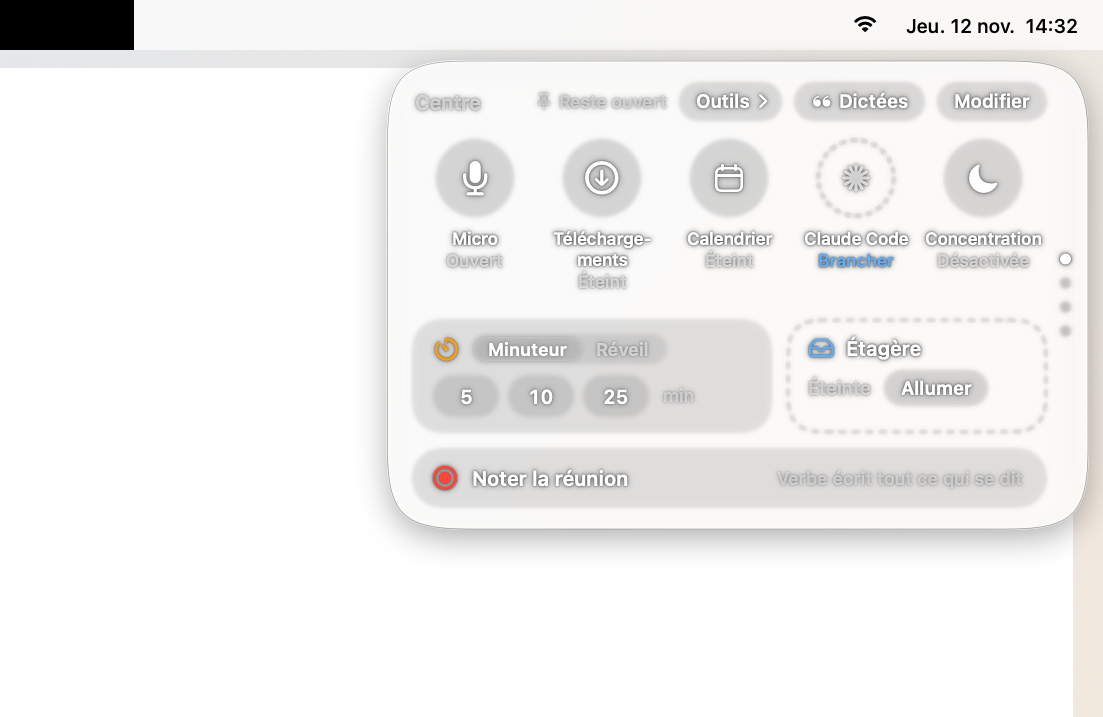
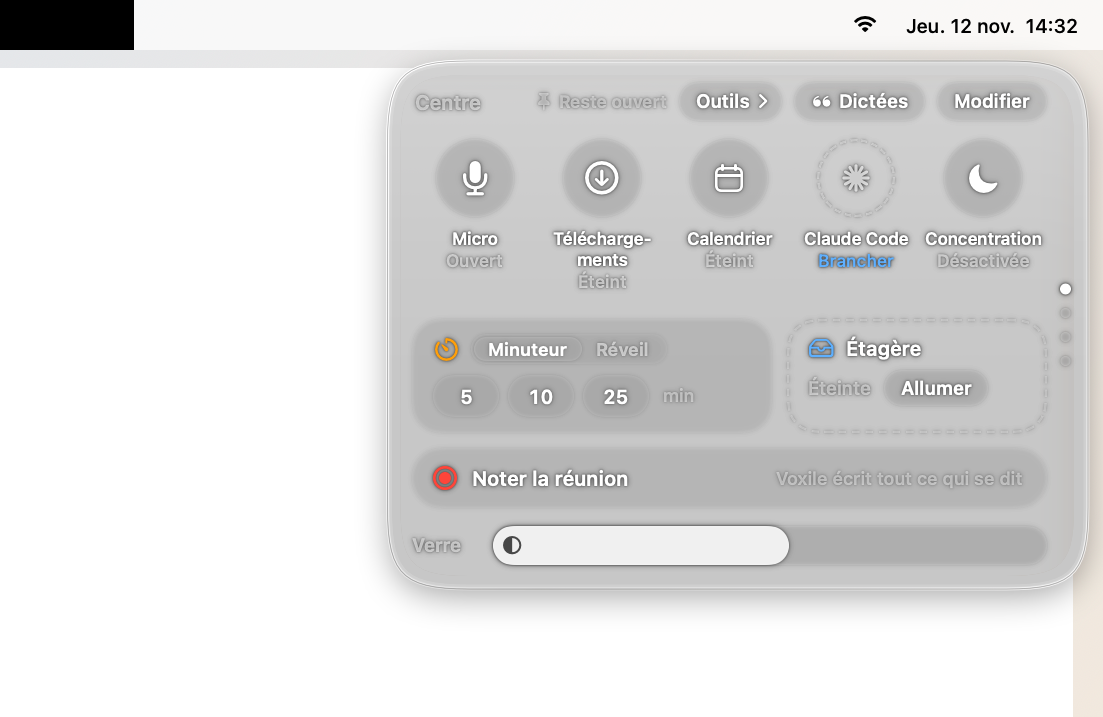
Centre : le curseur « Verre » règle l'intensité du verre depuis l'îlot, comme la luminosité du Centre de contrôle
Demande de Hugues (13/11) : régler l'opacité de la pilule directement depuis le Centre, avec un bouton visible, sans raccourci.
- Une rangée en bas du Centre, quand la Lucarne est en verre (hors de l'encoche ; dans l'encoche, l'îlot est noir) : « Verre » et
  une piste en capsule qui se remplit, le symbole du verre au bout rempli ; un clic pose la valeur, un glisser la suit, le Centre
  reste ouvert. Elle ne dépend d'aucun rond libre (rangées pleines chez Hugues).
- Une seule valeur (`ReglageVerre.regler`, pas de 0,05) pour le curseur du Centre et celui des Réglages : bouger l'un déplace
  l'autre, l'aperçu est immédiat sur la Lucarne ; l'enregistrement passe par une fermeture que l'essai remplace.
- Essai `DICTEE_ESSAI_SEUL=verre` (et dans l'essai complet), vrais événements souris : pas de curseur dans l'encoche ; en verre,
  la hauteur du Centre suit ; clic à 20 % ; glisser lent de 20 à 85 % (plus que l'appui long) sans décoller la Lucarne ; Réglages
  et Centre synchronisés dans les deux sens. Contrôle du plan ; rendus lucarne-haut-droite-centre-clair/sombre.

diff --git a/Sources/Dictee/CentreIlot.swift b/Sources/Dictee/CentreIlot.swift
@@ -61,6 +61,7 @@ enum PlanCentre {
         case .ronds: h = DispositionCentre.ronds + (m.nomsSurDeuxLignesDe(page) ? DispositionCentre.ligneNom : 0)
         case .cases: h = DispositionCentre.cases
         case .bande: h = DispositionCentre.bande
+        case .verre: h = DispositionCentre.rangeeVerre
         }
         return CGRect(x: z.minX, y: g.barre + CGFloat(y), width: z.width, height: CGFloat(h))
     }
@@ -264,12 +265,15 @@ extension IlotMoteur {
     var nomsCentre: [(texte: String, place: CGFloat, taille: CGFloat)] { nomsDe(.centre) }
     var nomsSurDeuxLignes: Bool { nomsSurDeuxLignesDe(.centre) }
     /// Les rangées d'une page et sa profondeur sous la barre. Sur la page Outils, le panneau « Garder éveillé » prend la place des cases.
+    /// Le curseur « Verre » au bas du Centre : seulement quand la Lucarne est en verre (hors de l'encoche).
+    var verreDansLeCentre: Bool { lucarne.libre }
     func planDe(_ p: PageCentre) -> (hauts: [DispositionCentre.Rangee: Double], profondeur: Double) {
         let deux = nomsSurDeuxLignesDe(p)
         // le Centre suit sa mise en page du moment (les fichiers de l'étagère en haut, la réunion en case) ; les Outils, leur disposition
         if p == .centre {
             let mp = miseEnPageCentre
-            return DispositionCentre.plan(etagere: mp.etagereEnHaut, ronds: !rondsDe(p).isEmpty, cases: !mp.cases.isEmpty, bande: mp.bande, nomsSurDeuxLignes: deux)
+            return DispositionCentre.plan(etagere: mp.etagereEnHaut, ronds: !rondsDe(p).isEmpty, cases: !mp.cases.isEmpty, bande: mp.bande, nomsSurDeuxLignes: deux,
+                                          verre: verreDansLeCentre)
         }
         return DispositionCentre.plan(ronds: !rondsDe(p).isEmpty, cases: panneauEveilVisible, bande: dispositionDe(p).bande, nomsSurDeuxLignes: deux)
     }
@@ -345,6 +349,9 @@ struct CentreVue: View {
                 }
                 if m.miseEnPageCentre.bande {
                     BandeReunion(m: m).posee(PlanCentre.cadreBande(m, g), m.aspect(v, rang: 4), ancre: .top)
+                }
+                if let r = PlanCentre.cadre(.verre, m, g) {
+                    CurseurVerreCentre(m: m, largeur: r.width).posee(r, m.aspect(v, rang: 5), ancre: .top)
                 }
             } else {
                 if m.panneauEveilVisible, let c = PlanCentre.cadre(.cases, m, g, page: .outils) {
@@ -1418,5 +1425,46 @@ extension IlotControleur {
         moteur.telechargementsAttente = false
         if depuisLeCentre { moteur.avisCentre = .telechargementsRefuses }
         moteur.donneesChangees()
+    }
+}
+
+/// Le curseur « Verre » du Centre (13/11, Hugues : régler l'opacité de la pilule depuis l'îlot, avec un bouton visible, comme le curseur de
+/// luminosité du Centre de contrôle de macOS) : une piste en capsule qui se remplit, le symbole du verre au bout rempli ; on la glisse ou
+/// on clique où l'on veut. C'est la même valeur que le curseur des Réglages (`ReglageVerre`) : l'aperçu est immédiat sur la Lucarne.
+struct CurseurVerreCentre: View {
+    @ObservedObject var m: IlotMoteur
+    @ObservedObject var verre = ReglageVerre.partage
+    var largeur: CGFloat
+    static let hauteurPiste: CGFloat = 26, etiquette: CGFloat = 44, ecart: CGFloat = 10
+    /// La piste (repère du Centre) : utile aux essais pour viser un point.
+    static func piste(_ r: CGRect) -> CGRect {
+        CGRect(x: r.minX + etiquette + ecart, y: r.midY - hauteurPiste / 2, width: r.width - etiquette - ecart, height: hauteurPiste)
+    }
+
+    var body: some View {
+        let w = largeur - Self.etiquette - Self.ecart, h = Self.hauteurPiste
+        let i = verre.intensite
+        HStack(spacing: Self.ecart) {
+            Text("Verre").font(.system(size: 12.5, weight: .semibold)).foregroundStyle(CouleursIlot.encre2)
+                .frame(width: Self.etiquette, alignment: .leading).allowsHitTesting(false)
+            ZStack(alignment: .leading) {
+                Capsule().fill(Color.white.opacity(0.16))
+                Capsule().fill(Color.white.opacity(0.92)).frame(width: h + (w - h) * CGFloat(i))
+                Image(systemName: "circle.lefthalf.filled").font(.system(size: 12, weight: .semibold)).foregroundStyle(Color.black.opacity(0.7))
+                    .frame(width: h, height: h)
+            }
+            .frame(width: w, height: h)
+            .contentShape(Capsule())
+            // un clic pose la valeur sous le pointeur, un glisser la suit ; le Centre reste ouvert (épinglé), comme pour ses boutons
+            .gesture(DragGesture(minimumDistance: 0).onChanged { g in
+                m.epinglerLeCentre()
+                verre.regler(Double((g.location.x - h / 2) / max(1, w - h)))
+            })
+            .accessibilityElement()
+            .accessibilityLabel("Intensité du verre")
+            .accessibilityValue(VerreLucarne.nomIntensite(i))
+            .accessibilityAdjustableAction { d in verre.regler(i + (d == .increment ? 0.1 : -0.1)) }
+        }
+        .frame(width: largeur, height: CGFloat(DispositionCentre.rangeeVerre))
     }
 }

diff --git a/Sources/Dictee/IlotEssaiPlacesLucarne.swift b/Sources/Dictee/IlotEssaiPlacesLucarne.swift
@@ -1041,3 +1041,70 @@ extension IlotEssai {
         c.panneau.recaler(); m.poser(); pause(0.4)
     }
 }
+
+extension IlotEssai {
+    /// Le curseur « Verre » du Centre (13/11, Hugues : l'intensité du verre réglable depuis l'îlot, comme la luminosité du Centre de
+    /// contrôle), avec de vrais événements souris : absent dans l'encoche (noire) ; en verre, un clic pose la valeur, un glisser de plus
+    /// d'une seconde la suit sans décoller la Lucarne, le Centre reste ouvert ; les Réglages suivent, et le curseur suit les Réglages.
+    /// Jamais les vrais réglages : la valeur est gardée dans une fermeture de l'essai.
+    @MainActor
+    static func verreCentre(_ c: IlotControleur, verifier: (Bool, String) -> Void, attendre: (Double, () -> Bool) -> Void) {
+        func pause(_ s: Double) { attendre(s) { true } }
+        let m = c.moteur
+        print("— le curseur « Verre » du Centre")
+        let rv = ReglageVerre.partage
+        let avant = rv.intensite, enregistrerAvant = rv.enregistrer
+        var ecrits: [Double] = []
+        rv.enregistrer = { ecrits.append($0) }
+        var tenu = false
+        m.boutonEnfonce = { tenu }
+        func aller(_ p: PlaceLucarne) {
+            CatalogueLucarne.vider(m)
+            EssaiPlaces.memoire.poser(p, sur: EssaiPlaces.ecran)
+            c.panneau.recaler(); m.poser(); pause(0.4)
+        }
+        defer {
+            m.boutonEnfonce = { NSEvent.pressedMouseButtons & 1 != 0 }
+            rv.enregistrer = enregistrerAvant; rv.intensite = avant
+            aller(.encoche)
+        }
+        // dans l'encoche : l'îlot est noir, pas de verre à régler
+        aller(.encoche)
+        m.clicForme(); pause(0.9)
+        verifier(m.courante == .centre && PlanCentre.cadre(.verre, m) == nil, "Lucarne dans l'encoche (noire) : pas de curseur Verre dans le Centre")
+        m.fermer(); pause(0.8)
+        // en verre, en haut à droite : un clic court sur la pilule ouvre le Centre
+        aller(.hautDroite)
+        let pil = m.lucarne.capsule.cible
+        let surPilule = CGPoint(x: pil.centreX, y: pil.centreY)
+        c.panneau.envoyerSouris(.leftMouseDown, en: surPilule); pause(0.08); c.panneau.envoyerSouris(.leftMouseUp, en: surPilule); pause(1.0)
+        guard m.courante == .centre, let r = PlanCentre.cadre(.verre, m) else {
+            verifier(false, "Lucarne en verre : le Centre s'ouvre et montre le curseur Verre (\(m.courante.rawValue))"); return
+        }
+        verifier(abs(CGFloat(m.geo[2].x) - m.grille.hauteur(.centre)) < 0.6,
+                 "le Centre en verre a la hauteur de ce qu'il montre, curseur compris (\(Int(m.geo[2].x)) pt pour \(Int(m.grille.hauteur(.centre))))")
+        let piste = CurseurVerreCentre.piste(r), h = CurseurVerreCentre.hauteurPiste
+        func point(_ u: CGFloat) -> CGPoint { m.depuisContenu(CGPoint(x: piste.minX + h / 2 + (piste.width - h) * u, y: piste.midY)) }
+        func bas(_ p: CGPoint) { tenu = true; c.panneau.envoyerSouris(.leftMouseDown, en: p) }
+        func haut(_ p: CGPoint) { c.panneau.envoyerSouris(.leftMouseUp, en: p); tenu = false }
+        // un clic à 20 %
+        bas(point(0.2)); pause(0.08); haut(point(0.2)); pause(0.4)
+        verifier(abs(rv.intensite - 0.2) < 0.051 && abs((ecrits.last ?? -1) - rv.intensite) < 0.001 && m.courante == .centre && m.lucarne.place == .hautDroite,
+                 "un vrai clic à 20 % de la piste : intensité \(rv.intensite), gardée, le Centre reste ouvert, la Lucarne à sa place")
+        // un glisser lent (plus d'une seconde, au-delà des 0,4 s de l'appui long) de 20 % à 85 %
+        bas(point(0.2))
+        for i in 1...30 { c.panneau.envoyerSouris(.leftMouseDragged, en: point(0.2 + 0.65 * CGFloat(i) / 30)); pause(0.035) }
+        pause(0.2); haut(point(0.85)); pause(0.6)
+        verifier(abs(rv.intensite - 0.85) < 0.051 && m.courante == .centre && m.lucarne.place == .hautDroite && !m.lucarneEnMain && m.lucarne.geste.phase == .repos,
+                 "un vrai glisser de 20 à 85 % en plus d'une seconde : intensité \(rv.intensite), la Lucarne ne se décolle pas, le Centre reste ouvert \(IlotEssai.etatLucarne(m))")
+        // les deux curseurs n'en font qu'un : les Réglages suivent le Centre, et l'inverse
+        let reglages = ReglagesModele(reel: false)
+        let suitLeCentre = abs(reglages.intensiteVerre - rv.intensite) < 0.001
+        reglages.intensiteVerre = 0.4; pause(0.2)
+        verifier(suitLeCentre && abs(rv.intensite - 0.4) < 0.001 && abs((ecrits.last ?? -1) - 0.4) < 0.001,
+                 "Réglages et Centre : la même valeur (Réglages à \(reglages.intensiteVerre), Centre à \(rv.intensite)), bouger l'un déplace l'autre")
+        bas(point(1)); pause(0.08); haut(point(1)); pause(0.3)
+        verifier(abs(reglages.intensiteVerre - 1) < 0.001, "le curseur du Centre au bout : les Réglages affichent « \(VerreLucarne.nomIntensite(reglages.intensiteVerre)) »")
+        m.clicAilleurs(); pause(0.6)
+    }
+}

diff --git a/Sources/Dictee/ReglagesModele.swift b/Sources/Dictee/ReglagesModele.swift
@@ -1,4 +1,5 @@
 import AppKit
+import Combine
 import AVFoundation
 import ServiceManagement
 import EventKit
@@ -35,7 +36,7 @@ final class ReglagesModele: ObservableObject {
     /// Pas d'encoche sur l'écran principal : l'icône est toujours là (`PresenceIcone`), l'interrupteur la montre allumée, grisé.
     @Published var iconeToujours = false
     /// L'intensité du verre de la Lucarne : 0 discret, 1 très appuyé (0,5 par défaut).
-    @Published var intensiteVerre: Double { didSet { if !installe { return }; Settings.intensiteVerre = intensiteVerre; ReglageVerre.partage.intensite = intensiteVerre } }
+    @Published var intensiteVerre: Double { didSet { if !installe { return }; ReglageVerre.partage.regler(intensiteVerre) } }
     @Published var ilotMicro: Bool { didSet { if !installe { return }; Settings.ilotMicro = ilotMicro; NotificationCenter.default.post(name: .verbeIlotReglages, object: nil) } }
     @Published var ilotNiveaux: Bool { didSet { if !installe { return }; Settings.ilotNiveaux = ilotNiveaux; NotificationCenter.default.post(name: .verbeIlotReglages, object: nil) } }
     @Published var ilotEtagere: Bool { didSet { if !installe { return }; Settings.ilotEtagere = ilotEtagere; NotificationCenter.default.post(name: .verbeIlotReglages, object: nil) } }
@@ -97,6 +98,7 @@ final class ReglagesModele: ObservableObject {
     /// Réglage « Appuyer sur 🌐 pour » (voir `ToucheGlobe`) ; `nil` = clé absente.
     @Published private(set) var globeValeur: Int?
     private var installe = false
+    private var verre: AnyCancellable?
     private let reel: Bool
     /// Mises à jour : l'état partagé avec la ligne sous l'encoche (réel), ou un exemple pour les rendus.
     let maj: MiseAJourModele
@@ -139,6 +141,13 @@ final class ReglagesModele: ObservableObject {
         ouvrirAuDemarrage = reel ? SMAppService.mainApp.status == .enabled : false
         micros = [MicroChoix(id: ChoixMicro.automatique, nom: "Automatique"), MicroChoix(id: ChoixMicro.systeme, nom: "Micro du système")]
         installe = true
+        // le curseur du Centre de l'îlot change la même valeur : celui des Réglages le suit (ne lit que ReglageVerre : aussi en essai)
+        verre = ReglageVerre.partage.$intensite.removeDuplicates().sink { [weak self] v in
+            MainActor.assumeIsolated {
+                guard let self, abs(self.intensiteVerre - v) > 0.001 else { return }
+                self.installe = false; self.intensiteVerre = v; self.installe = true
+            }
+        }
         if reel {
             NotificationCenter.default.addObserver(forName: NSApplication.didChangeScreenParametersNotification, object: nil, queue: .main) { [weak self] _ in
                 MainActor.assumeIsolated { guard let self else { return }; let t = !PresenceIcone.encochePrincipale; if self.iconeToujours != t { self.iconeToujours = t } }

diff --git a/Sources/Dictee/IlotEssai.swift b/Sources/Dictee/IlotEssai.swift
@@ -121,7 +121,7 @@ enum IlotEssai {
         // une section seule (pour la mettre au point sans attendre tout l'essai) : `DICTEE_ESSAI_SEUL=bibliotheque` (ou `reveil`, `places`, `places-survol`, `concentration`, `voix`), ou
         // `--ilot-essai --seulement=survol` (le survol des Dictées, pour mesurer vite ; l'essai complet la joue aussi)
         let seul = CommandLine.arguments.contains("--seulement=survol") ? "survol" : ProcessInfo.processInfo.environment["DICTEE_ESSAI_SEUL"]
-        if let seul, ["bibliotheque", "reveil", "survol", "places", "places-survol", "concentration", "voix", "dictee"].contains(seul) {
+        if let seul, ["bibliotheque", "reveil", "survol", "places", "places-survol", "concentration", "voix", "dictee", "verre"].contains(seul) {
             attendre(0.4)
             if seul == "bibliotheque" {
                 IlotEssai.bibliotheque(c, dossier: dossier, verifier: verifier, attendre: { attendre($0, tant: $1) },
@@ -134,6 +134,8 @@ enum IlotEssai {
                 // `places-survol` : le survol des Dictées juste après (comme dans l'essai complet) : la Lucarne revenue dans l'encoche ne
                 // doit rien laisser qui alourdisse l'îlot
                 if seul == "places-survol" { IlotEssai.survolDictees(c, verifier: verifier, attendre: { attendre($0, tant: $1) }) }
+            } else if seul == "verre" {
+                IlotEssai.verreCentre(c, verifier: verifier, attendre: { attendre($0, tant: $1) })
             } else if seul == "dictee" {
                 IlotEssai.dicteeLucarneCablee(c, verifier: verifier, attendre: { attendre($0, tant: $1) })
                 IlotEssai.lectureEnPauseLucarne(c, verifier: verifier, attendre: { attendre($0, tant: $1) })
@@ -1195,6 +1197,7 @@ enum IlotEssai {
         IlotEssai.dicteeLucarne(c, verifier: verifier, attendre: { attendre($0, tant: $1) })
         IlotEssai.dicteeLucarneCablee(c, verifier: verifier, attendre: { attendre($0, tant: $1) })
         IlotEssai.lectureEnPauseLucarne(c, verifier: verifier, attendre: { attendre($0, tant: $1) })
+        IlotEssai.verreCentre(c, verifier: verifier, attendre: { attendre($0, tant: $1) })
         IlotEssai.survolDictees(c, verifier: verifier, attendre: { attendre($0, tant: $1) })
         IlotEssai.secondBrain(c, dossier: dossier, verifier: verifier, attendre: { attendre($0, tant: $1) })
         IlotEssai.bibliotheque(c, dossier: dossier, verifier: verifier, attendre: { attendre($0, tant: $1) },

diff --git a/Sources/DicteeCore/DispositionCentre.swift b/Sources/DicteeCore/DispositionCentre.swift
@@ -224,7 +224,10 @@ public struct DispositionCentre: Equatable, Sendable {
     /// pour son sélecteur « Minuteur · Réveil » et ses quatre heures.
     public static func poidsCase(_ e: ElementCentre) -> Double { e == .minuteur ? 1.16 : 0.84 }
 
-    public enum Rangee: Sendable { case etagere, ronds, cases, bande }
+    public enum Rangee: Sendable { case etagere, ronds, cases, bande, verre }
+    /// Le curseur « Verre » en bas du Centre (13/11, Hugues : régler l'intensité du verre depuis l'îlot, comme la luminosité du Centre
+    /// de contrôle) ; seulement quand la Lucarne est en verre (hors de l'encoche : dans l'encoche, l'îlot est noir).
+    public static let rangeeVerre: Double = 30
     /// La rangée des fichiers de l'étagère, en haut du Centre quand elle en garde (maquette ilot-etagere-rapide.html, étape 6).
     public static let rangeeEtagere: Double = 64
 
@@ -245,11 +248,11 @@ public struct DispositionCentre: Equatable, Sendable {
     }
 
     /// Le haut de chaque rangée présente, depuis le haut du corps (sous la barre), et la profondeur totale.
-    public static func plan(etagere e: Bool = false, ronds r: Bool, cases c: Bool, bande b: Bool, nomsSurDeuxLignes: Bool = false) -> (hauts: [Rangee: Double], profondeur: Double) {
+    public static func plan(etagere e: Bool = false, ronds r: Bool, cases c: Bool, bande b: Bool, nomsSurDeuxLignes: Bool = false, verre v: Bool = false) -> (hauts: [Rangee: Double], profondeur: Double) {
         var y = haut + entete
         var hauts: [Rangee: Double] = [:]
         var premiere = true
-        for (rangee, presente, h) in [(Rangee.etagere, e, rangeeEtagere), (.ronds, r, ronds + (nomsSurDeuxLignes ? ligneNom : 0)), (.cases, c, cases), (.bande, b, bande)] where presente {
+        for (rangee, presente, h) in [(Rangee.etagere, e, rangeeEtagere), (.ronds, r, ronds + (nomsSurDeuxLignes ? ligneNom : 0)), (.cases, c, cases), (.bande, b, bande), (.verre, v, rangeeVerre)] where presente {
             y += premiere ? ecartEntete : ecart
             premiere = false
             hauts[rangee] = y

diff --git a/Sources/Dictee/ReglageVerre.swift b/Sources/Dictee/ReglageVerre.swift
@@ -3,9 +3,20 @@ import DicteeCore
 
 /// L'intensité du verre de la Lucarne (Réglages › Apparence) : une seule valeur, lue par la Lucarne et la dictée posée à sa place ;
 /// le curseur des Réglages la change en direct (l'aperçu est immédiat, comme le curseur « Intensité du verre » de Sillonia).
+/// Deux curseurs la changent : celui des Réglages (Apparence) et celui du Centre de l'îlot (13/11, Hugues : « comme le curseur de
+/// luminosité du Centre de contrôle ») ; les deux lisent cette valeur, bouger l'un déplace l'autre.
 @MainActor
 final class ReglageVerre: ObservableObject {
     static let partage = ReglageVerre()
     @Published var intensite: Double
+    /// Où la valeur est gardée (le vrai réglage ; l'essai le remplace : jamais les vrais réglages).
+    var enregistrer: (Double) -> Void = { Settings.intensiteVerre = $0 }
     init(intensite: Double = Settings.intensiteVerre) { self.intensite = intensite }
+    /// Une nouvelle intensité (bornée 0…1, par pas de 0,05 comme le curseur des Réglages) : l'aperçu est immédiat, la valeur gardée.
+    func regler(_ v: Double) {
+        let x = (min(1, max(0, v)) * 20).rounded() / 20
+        guard x != intensite else { return }
+        intensite = x
+        enregistrer(x)
+    }
 }

diff --git a/Sources/DicteeControles/ControlesReveil.swift b/Sources/DicteeControles/ControlesReveil.swift
@@ -118,6 +118,9 @@ func controlesReveil() {
     let pleinR = D.relire(identifiants: ["micro", "dictee", "telechargements", "claude", "rappel", "derniere-dictee"], dejaProposees: [])
     // depuis 222bcee : une nouveauté sans place n'est plus retenue (elle arrivera quand une place se libère)
     verifier(pleinR.aRetenir == nil && pleinR.ajoutees.isEmpty, "rangée pleine : rien d'ajouté, rien de retenu (la nouveauté attend une place libre)")
+    let pv = D.plan(ronds: true, cases: true, bande: true, verre: true)
+    verifier(pv.profondeur == GeoIlot.profondeurCentre + D.ecart + D.rangeeVerre && pv.hauts[.verre] == GeoIlot.profondeurCentre - D.bas + D.ecart,
+             "le curseur Verre (Lucarne en verre) : une rangée de plus tout en bas, le reste ne bouge pas")
     let p2 = D.plan(ronds: true, cases: true, bande: true, nomsSurDeuxLignes: true)
     verifier(p2.profondeur == GeoIlot.profondeurCentre + D.ligneNom && p2.hauts[.cases] == 158 + D.ligneNom, "un nom sur deux lignes : la rangée des ronds s'allonge d'une ligne (14 pt), le reste descend")
     verifier(D.poidsCase(.minuteur) == 1.16 && D.poidsCase(.etagere) == 0.84, "cases côte à côte : Minuteur 1,16, Étagère 0,84 (maquette)")
